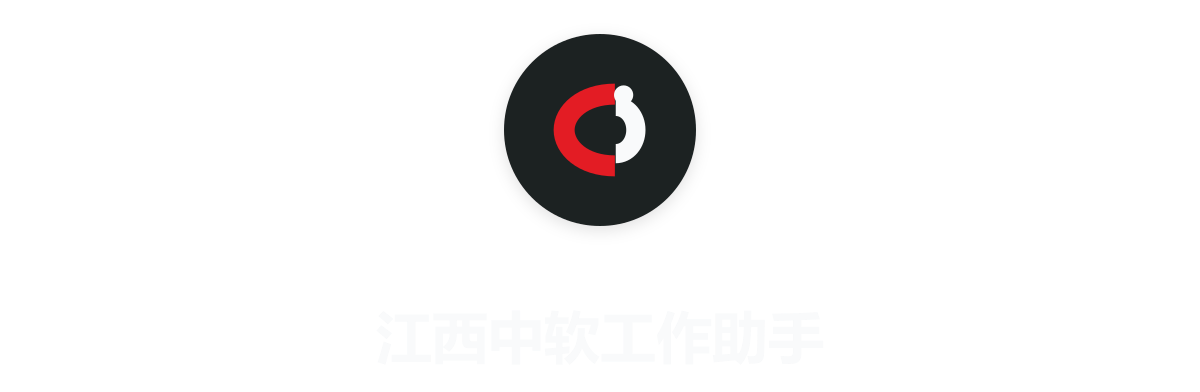
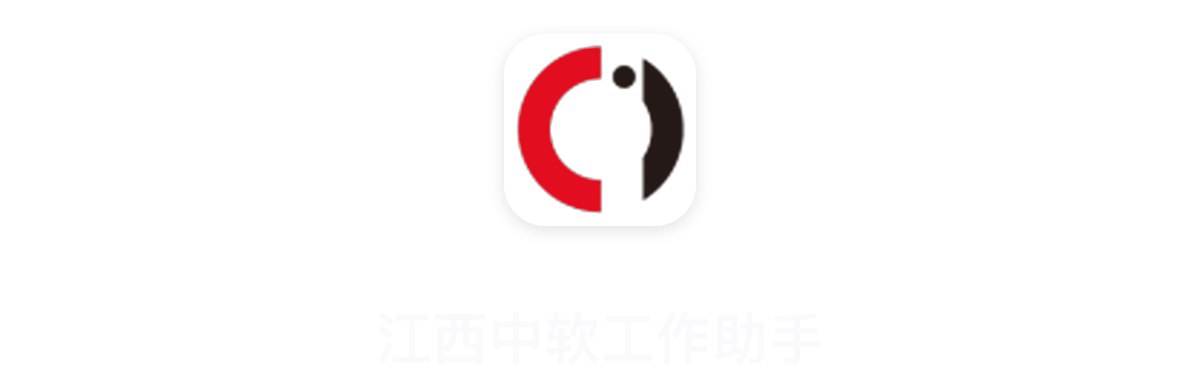
feat(desktop): 应用图标、登录页、品牌标统一替换为 mom_logo.png
之前的手绘矢量标与实际 logo 不一致，改为直接使用上传的原图：
- 应用图标（1024）与安装程序 5 张品牌图由原图经 sharp 生成
- 应用内 FishLogo、登录页、欢迎页品牌条内嵌原图（含圆角裁切）
- 同步更新两个出图脚本与 overlay 清单
- 版本显示只保留 0.2.1，去掉 -rc.2.日期.序号 后缀

Changed region(s): [[0.4008, 0.0612, 0.5858, 0.5816]]

diff --git a/desktop/shell/packages/client/ui-primitives/src/FishLogo.tsx b/desktop/shell/packages/client/ui-primitives/src/FishLogo.tsx
@@ -1,32 +1,24 @@
 import type { IconProps } from './icons/props.ts'
 
-/** Native viewBox of {@link FISH_LOGO_PATH} (width and height in user units). */
-export const FISH_LOGO_VIEWBOX = { width: 23.16, height: 17.04 }
+const MOM_LOGO_DATA_URI =
[1 lines of base64/hex data omitted]
 
-/** The fish silhouette path data, exported for consumers that compose their own svg (entrance effects, masks) around the same geometry. */
-export const FISH_LOGO_PATH = 'M22.9168 1.43018C22.6713 1.31018 22.5658 1.53918 22.4223 1.65519C22.3733 1.69269 22.3318 1.74169 22.2903 1.78669C21.9317 2.1697 21.5127 2.42121 20.9657 2.39121C20.1657 2.34621 19.4827 2.59771 18.8787 3.20973C18.7502 2.45521 18.3236 2.0047 17.6746 1.71569C17.3351 1.56568 16.9916 1.41518 16.7536 1.08867C16.5876 0.856163 16.5421 0.597155 16.4591 0.341647C16.4061 0.187643 16.3536 0.0301382 16.1761 0.00363739C15.9836 -0.0263635 15.9081 0.135141 15.8326 0.270145C15.5306 0.822162 15.4136 1.43018 15.4251 2.0462C15.4516 3.43174 16.0366 4.53527 17.1991 5.3203C17.3311 5.4103 17.3651 5.5003 17.3236 5.63181C17.2441 5.90231 17.1501 6.16482 17.0671 6.43533C17.0141 6.60784 16.9351 6.64584 16.7501 6.57033C16.1121 6.30383 15.5611 5.90931 15.074 5.4328C14.2475 4.63328 13.5 3.75075 12.568 3.05973C12.349 2.89822 12.13 2.74822 11.9034 2.60522C10.9524 1.68169 12.028 0.923165 12.277 0.833162C12.5375 0.739159 12.3675 0.41615 11.5259 0.42015C10.6844 0.42365 9.91439 0.705658 8.93286 1.08117C8.78935 1.13767 8.63835 1.17867 8.48384 1.21267C7.59332 1.04367 6.66829 1.00617 5.70226 1.11517C3.88321 1.31768 2.43016 2.1777 1.36213 3.64575C0.0790928 5.4103 -0.222916 7.41536 0.146595 9.50642C0.535106 11.7105 1.66014 13.535 3.38869 14.9616C5.18125 16.4406 7.24581 17.1657 9.60138 17.0266C11.0319 16.9441 12.6245 16.7526 14.421 15.2321C14.874 15.4576 15.3496 15.5476 16.1381 15.6151C16.7456 15.6716 17.3306 15.5851 17.7836 15.4911C18.4931 15.3411 18.4441 14.6841 18.1876 14.5636C16.1081 13.595 16.5646 13.9891 16.1496 13.67C17.2061 12.42 18.8202 10.1979 19.3182 7.17235C19.3672 6.83834 19.4297 6.36783 19.4222 6.09732C19.4182 5.93231 19.4562 5.86831 19.6447 5.84931C20.1657 5.78931 20.6712 5.64681 21.1357 5.3913C22.4833 4.65528 23.0268 3.44624 23.1548 1.9972C23.1738 1.77569 23.1508 1.54668 22.9168 1.43018ZM11.1749 14.4736C9.15936 12.889 8.18184 12.3675 7.77832 12.39C7.40081 12.4125 7.46881 12.8445 7.55182 13.126C7.63882 13.404 7.75182 13.5955 7.91033 13.8396C8.01983 14.0011 8.09533 14.2411 7.80083 14.4216C7.15181 14.8231 6.02327 14.2866 5.97027 14.2601C4.65673 13.4865 3.5587 12.4655 2.78467 11.069C2.03715 9.72493 1.60314 8.28289 1.53164 6.74384C1.51264 6.37233 1.62214 6.24082 1.99215 6.17332C2.47916 6.08332 2.98118 6.06432 3.46769 6.13582C5.52476 6.43633 7.27581 7.35586 8.74385 8.8129C9.58188 9.64243 10.2159 10.634 10.8689 11.6025C11.5634 12.631 12.3105 13.611 13.262 14.4146C13.598 14.6961 13.866 14.9101 14.1225 15.0681C13.349 15.1546 12.058 15.1731 11.1749 14.4746L11.1749 14.4736ZM12.141 8.25988C12.141 8.09488 12.273 7.96338 12.439 7.96338C12.4765 7.96338 12.5105 7.97088 12.541 7.98188C12.5825 7.99688 12.6205 8.01938 12.6505 8.05338C12.7035 8.10588 12.7335 8.18088 12.7335 8.25988C12.7335 8.42489 12.6015 8.55639 12.4355 8.55639C12.2695 8.55639 12.141 8.42489 12.141 8.25988ZM15.1415 9.79893C14.949 9.87793 14.7565 9.94544 14.5715 9.95294C14.2845 9.96794 13.9715 9.85143 13.8015 9.70893C13.5375 9.48742 13.3485 9.36342 13.2695 8.97691C13.2355 8.8119 13.2545 8.55639 13.2845 8.40989C13.3525 8.09438 13.277 7.89187 13.0545 7.70787C12.8735 7.55786 12.643 7.51636 12.39 7.51636C12.2955 7.51636 12.209 7.47486 12.1445 7.44136C12.039 7.38886 11.9519 7.25735 12.035 7.09585C12.0615 7.04335 12.19 6.91584 12.22 6.89334C12.5635 6.69784 12.9595 6.76184 13.326 6.90834C13.6655 7.04735 13.9225 7.30236 14.292 7.66287C14.6695 8.09838 14.7375 8.21838 14.9525 8.54539C15.1225 8.8009 15.277 9.06341 15.3831 9.36392C15.4471 9.55142 15.3641 9.70493 15.1415 9.79893Z'
+/** Kept for upstream index re-export compatibility; the mark is now a raster logo. */
+export const FISH_LOGO_VIEWBOX = { width: 64, height: 64 }
 
-/**
- * Render the fish logo.
- * @param props.size - width in px (default 24; height keeps the 23.16:17.04 ratio).
- * @param props.className - extra class for layout placement.
- * @returns the logo svg (aria-hidden; pair with the wordmark for accessibility).
- */
+/** Kept for upstream index re-export compatibility; the mark is now a raster logo. */
+export const FISH_LOGO_PATH = ''
+
 export function FishLogo({ size = 24, className }: IconProps) {
   return (
-    <svg
-      width={size}
-      height={size}
-      className={className}
-      viewBox="0 0 64 64"
-      fill="none"
-      aria-hidden="true"
-    >
-      <g fill="none" strokeLinecap="butt" strokeLinejoin="round">
-        <path d="M40.5 11.5 C 22 11.5 11.5 22 11.5 32 S 22 52.5 40.5 52.5" stroke="#E31C24" strokeWidth="12" />
-        <path d="M41 18.5 C 47.5 18.5 52.5 24.5 52.5 32 S 47.5 45.5 41 45.5" stroke="currentColor" strokeWidth="11" />
-      </g>
-      <circle cx="45.5" cy="12" r="5.5" fill="currentColor" />
+    <svg width={size} height={size} className={className} viewBox="0 0 64 64" fill="none" aria-hidden="true">
+      <defs>
+        <clipPath id="mom-logo-clip">
+          <rect width="64" height="64" rx="14" />
+        </clipPath>
+      </defs>
+      <rect width="64" height="64" rx="14" fill="#FFFFFF" />
+      <image href={MOM_LOGO_DATA_URI} x="0" y="0" width="64" height="64" clipPath="url(#mom-logo-clip)" />
     </svg>
   )
 }

diff --git a/desktop/shell/apps/desktop/src/locale.ts b/desktop/shell/apps/desktop/src/locale.ts
@@ -380,11 +380,12 @@ export function formatDesktopMessage(
 
 /**
  * User-facing form of an application or feed version. Packaged builds append the build date and
- * sequence (`0.2.1-rc.2.20261102.2`); the display form keeps the release version and drops that
- * suffix. Versions without it pass through unchanged.
+ * sequence (`0.2.1-rc.2.20261102.2`) and carry a prerelease segment (`-rc.2`) that means nothing
+ * to end users; the display form keeps only the release numbers (`0.2.1`). Versions without a
+ * leading semver core pass through unchanged.
  */
 export function desktopDisplayVersion(version: string): string {
-  return version.replace(/\.\d{8}\.\d+$/u, '')
+  return /^(\d+\.\d+\.\d+)/u.exec(version)?.[1] ?? version
 }
 
 /**
